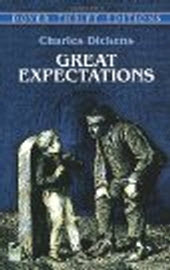
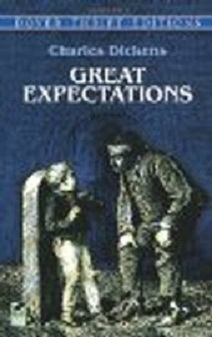
Adding new book images. Fixed bug with switching categories on main page. No longer use ajax as there are deep issues with jQuery/ajax and dataTables. Just post new category to session and then have the page request a reload.

diff --git a/finalproject/php/bookstore_view.php b/finalproject/php/bookstore_view.php
@@ -13,8 +13,12 @@
             // other initializations. 
             $(document).ready(function() {
                 // set the table to just display 5 books at a time.
+                // Also, make sure the book link manages the image correctly
+                // so set callback on each row loaded to initialize the link
+                // handler.
                 $('#books').dataTable( {
-                    "iDisplayLength" : 5
+                    "iDisplayLength" : 5,
+                    'fnRowCallback': initializeBookDetailLinkEvents()
                 });
                 
                 // Establish handler for changing book catagory selection
@@ -62,25 +66,31 @@
             
             }
             
-            // Customer selects a new book category handle through ajax call
-            // Note: AJAX updates the DOM, and the DOM events need to be
-            //       rebinded or the links for viewing book images will no 
-            //       longer work.
+            // Customer selects a new book category.
             function handleBookCategorySelection() {
                 var categorySelected = $("#bookCategory :selected").val();
                 
-                // use ajax to get the new books to show based on the selected category
-                $.ajax({
-                    url: "index.php",
-                    type : "post",
-                    data: {action : 'categorySelectionChanged', book_category : categorySelected },
-                    dataType: "text",
-                    success: function(data, status, xhr) {
-                        $("#bookbody").html(data);  // note: data is the html
-                        $("#bookcategorycaption").html('Books available for category ' + categorySelected);
-                        initializeBookDetailLinkEvents(); // must re-bind links
+                // use post to get the new books to show based on the selected category
+                // just reload the full page again with the new information.
+                $.post(
+                    "index.php",
+                    {action : 'categorySelectionChanged', book_category : categorySelected },
+                    function(result){
+                        window.location = 'index.php?action=redisplay_bookstore_page';  // force a page reload
                     }
-                });
+                    
+                      // The code below did not work as there are very complex interactions
+                      // with jQuery/ajax and the dataTable. I believe with a lot of
+                      // work it may be possible to get dataTables to work with an
+                      // external ajax approach but is so complex, let us abandon this
+                      // and just simply reload the full page.
+//                    success: function(data, status, xhr) {
+//                        $("#bookbody").html(data);  // note: data is the html
+//                        $("#bookcategorycaption").html('Books available for category ' + categorySelected);
+//                        initializeBookDetailLinkEvents(); // must re-bind links
+//                    }
+                );
+                return true;
             }
                 
             // Add book to cart, this is called directly off the button onclick directive
@@ -90,7 +100,6 @@
                 debugger;
                 var hiddenDataElement = document.getElementById("hdata" + bookId);
                 var bookData = hiddenDataElement.value;
-                //$("#output_area").html(bookData);
                 
                 // format the data for the ajax call
                 var args = bookData.split(",");
@@ -227,7 +236,8 @@
             }
             
             div#detail_book_div {
-                margin-top: 40px;
+                margin-top: 60px;
+                margin-left: 10px;
             }
             
         </style>

diff --git a/finalproject/php/index.php b/finalproject/php/index.php
@@ -144,7 +144,8 @@ else if ($action == 'process_admin_change') {
 
 else if ($action == 'redisplay_bookstore_page') {
     session_start();  // otherwise $_SESSION is lost
-    $books = Database::getBooks("Fiction");  // TODO: get based on customer's interest
+    $generalInterest = $_SESSION['general_interest'];  // restore current book category
+    $books = Database::getBooks($generalInterest);
     $bookCategories = Database::getBookCategories();
     include('bookstore_view.php');  // everything should be ready to go, right?
     
@@ -265,25 +266,29 @@ else if ($action == 'clearCart') {
     echo '</tr>';
 }
 else if ($action == 'categorySelectionChanged') {
+    // A simple post call needs to set the session general category to
+    // the new choice. The client will then call back again with
+    // a request to load the bookstore_view.php page. This is handled
+    // by the redisplay_bookstore_page action request.
     session_start();
     $bookCategory = $_POST['book_category'];
     $_SESSION['general_interest'] = $bookCategory;
     
-    // get the books based on the new category
-    $books = Database::getBooks($bookCategory);
-    
-    foreach ($books as $book) { 
-        echo '<tr id="row' . $book['book_key'] . '">';
-        echo   '<td><a href="http://www.google.com" class="showBookDetails"  id="viewDetails' . 
-                   $book['book_key'] . '">' . $book['title'] . '</a></td>';
-        echo   '<td>' . $book['author'] . '</td>';
-        echo   '<td>' . '$' . $book['price'] . '</td>';
-        echo   '<td><button id="book' . $book['book_key'] . '" onclick="addBookToCart(' . $book['book_key'] . ');">Add to Cart</button></td>';
-        echo   '<td><input type="hidden" id="hdata' . $book['book_key'] . '" name="tablerowdetails" value="' . 
-                'book_key=' . $book['book_key'] . ',title=' . $book['title'] . ',author=' . $book['author'] .
-                ',price=' . $book['price'] . ',imagepath=' . $book['imagepath'] . '"></td>';
-        echo  '</tr>';
-    }
+//    This code represents a failed ajax attempt to update dataTables with new
+//    information. There is more complexity with updating a dataTable via ajax
+//    then is really worth implementing.     
+//    foreach ($books as $book) { 
+//        echo '<tr id="row' . $book['book_key'] . '">';
+//        echo   '<td><a href="http://www.google.com" class="showBookDetails"  id="viewDetails' . 
+//                   $book['book_key'] . '">' . $book['title'] . '</a></td>';
+//        echo   '<td>' . $book['author'] . '</td>';
+//        echo   '<td>' . '$' . $book['price'] . '</td>';
+//        echo   '<td><button id="book' . $book['book_key'] . '" onclick="addBookToCart(' . $book['book_key'] . ');">Add to Cart</button></td>';
+//        echo   '<td><input type="hidden" id="hdata' . $book['book_key'] . '" name="tablerowdetails" value="' . 
+//                'book_key=' . $book['book_key'] . ',title=' . $book['title'] . ',author=' . $book['author'] .
+//                ',price=' . $book['price'] . ',imagepath=' . $book['imagepath'] . '"></td>';
+//        echo  '</tr>';
+//    }
 }
 else if ($action == 'bookSearch') {
     session_start();
